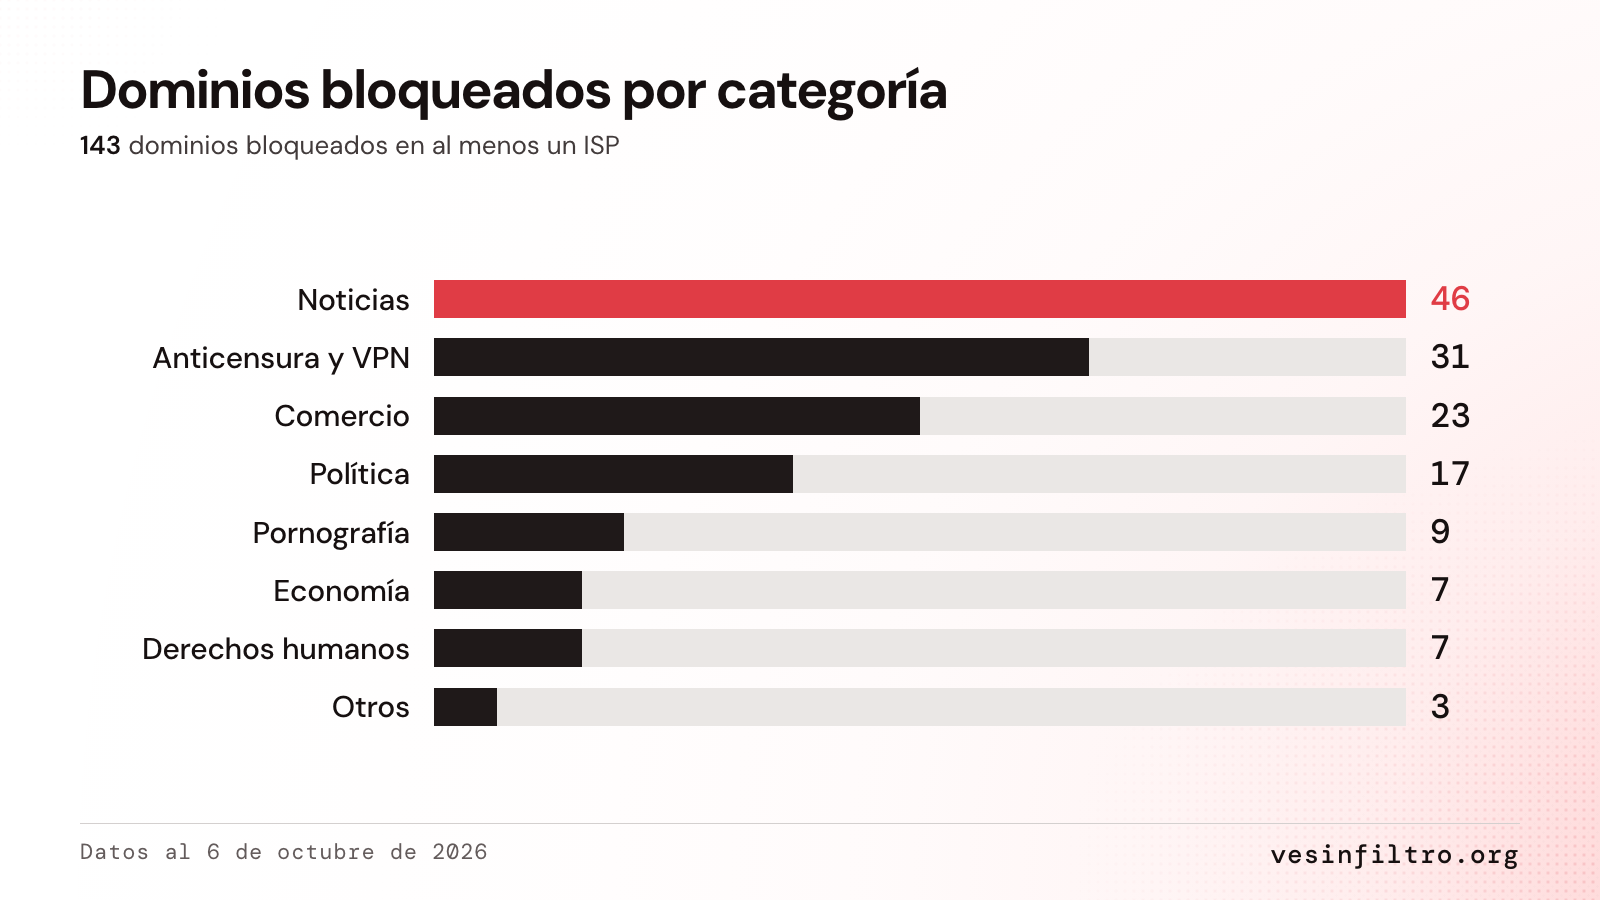
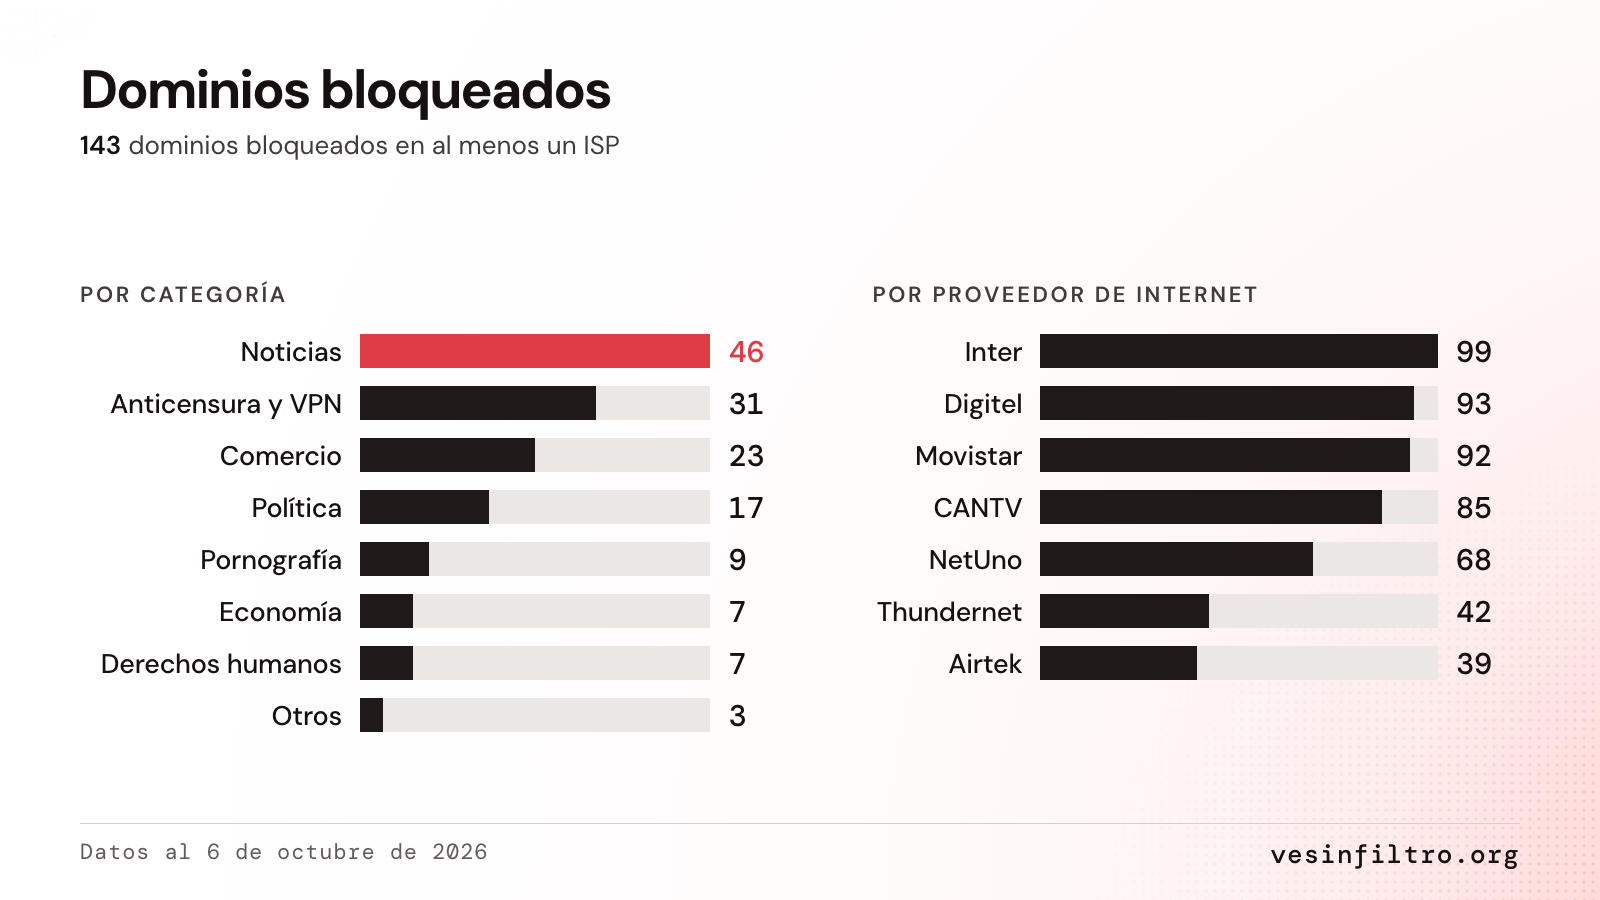
update charts 2026-10-06

diff --git a/_noticias/2026-10-06-reporte-desbloqueos.md b/_noticias/2026-10-06-reporte-desbloqueos.md
@@ -125,7 +125,7 @@ Hay 143 dominios bloqueados en al menos un ISP, pertenecientes a 102 sitios web 
 
 La censura contra sitios políticos críticos al gobierno y contra herramientas anticensura sigue casi sin cambios: 31 dominios de anticensura y VPN, 23 de comercio, 17 políticos, 9 de pornografía, 7 de derechos humanos y 7 de economía, además de 3 de otras categorías.
 
-![Gráfico de barras de los 143 dominios bloqueados por categoría: Noticias 46, Anticensura y VPN 31, Comercio 23, Política 17, Pornografía 9, Economía 7, Derechos humanos 7 y Otros 3](/res/post_img/2026-10-06/bloqueos-por-categoria.png)
+![Dos gráficos de barras de los 143 dominios bloqueados. Por categoría: Noticias 46, Anticensura y VPN 31, Comercio 23, Política 17, Pornografía 9, Economía 7, Derechos humanos 7 y Otros 3. Por proveedor: Inter 99, Digitel 93, Movistar 92, CANTV 85, NetUno 68, Thundernet 42 y Airtek 39](/res/post_img/2026-10-06/bloqueos-por-categoria.png)
 
 Entre los bloqueos que siguen activos, el más antiguo es el de DolarToday, desde enero de 2016, hace casi once años, a pesar de que el sitio web cerró. 
 
